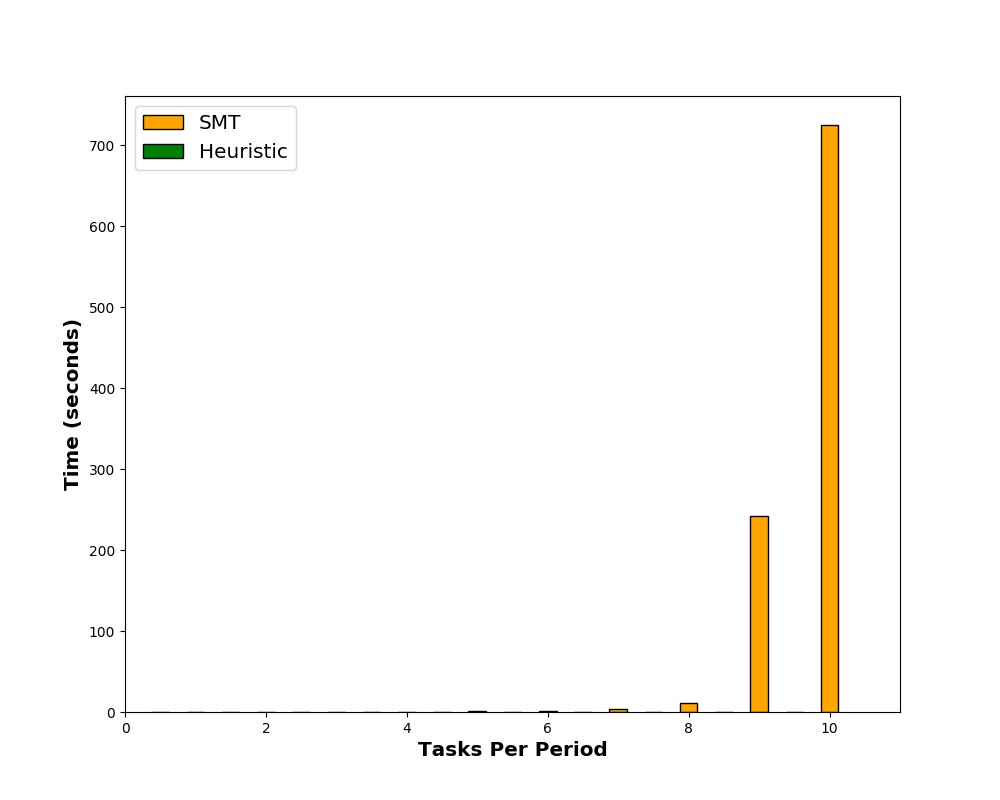
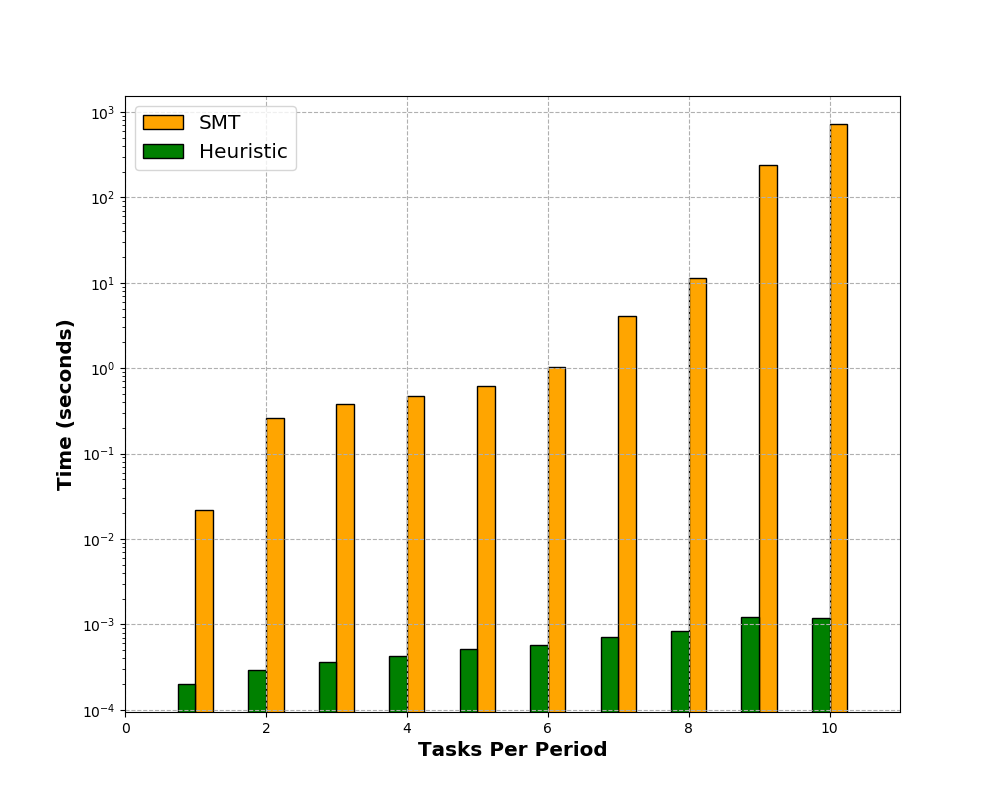
smt: updated plot for timing experiment

diff --git a/simulator/smt/simulator.py b/simulator/smt/simulator.py
@@ -1,6 +1,6 @@
 #!/usr/bin/env python
 
-import json
+import json, math
 from time import time
 import os, sys, shutil
 import multiprocessing
@@ -48,8 +48,8 @@ def plot_timing_data(data):
     fig = plt.subplots(1, 1, figsize = (10, 8))
 
     bar_width = 0.25
-    h2_xaxis  = [x - bar_width * 2 for x in data['x']]
-    smt_xaxis = data['x']
+    h2_xaxis  = [x - bar_width/2 for x in data['x']]
+    smt_xaxis = [x + bar_width/2 for x in data['x']]
 
     plt.bar(smt_xaxis, data['smt'], color = 'orange', width = bar_width,
             lw = 1.0, edgecolor = 'black', label = 'SMT')
@@ -57,9 +57,10 @@ def plot_timing_data(data):
     plt.bar(h2_xaxis, data['h2'], color = 'green', width = bar_width,
             lw = 1.0, edgecolor = 'black', label = 'Heuristic')
 
+    plt.grid(True, ls = '--')
+    plt.yscale('log')
     plt.legend(fontsize = 'x-large')
     plt.xlim([0, len(data['x']) + 1])
-    plt.ylim([0, max(data['smt']) * 1.05])
     plt.ylabel('Time (seconds)', fontsize = 'x-large', fontweight = 'bold')
     plt.xlabel('Tasks Per Period', fontsize = 'x-large', fontweight = 'bold')
 
